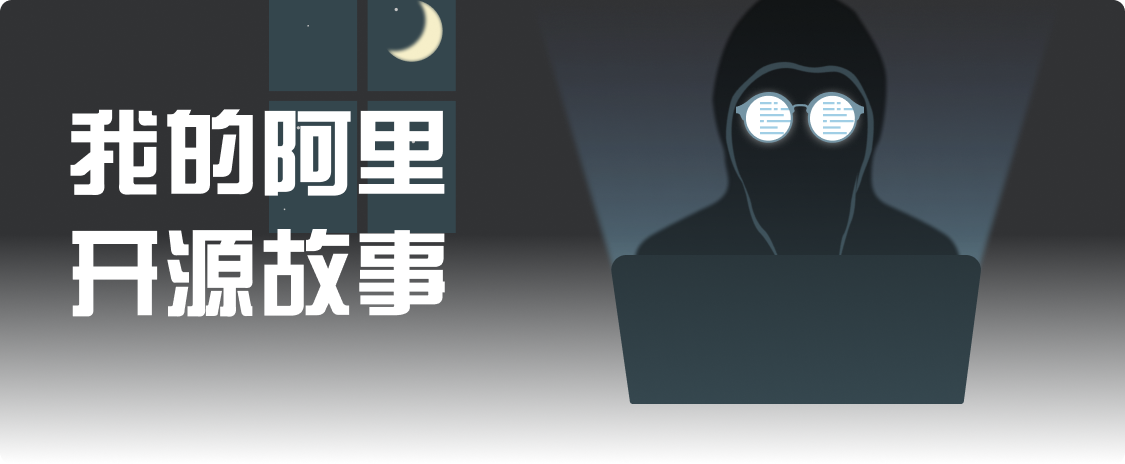
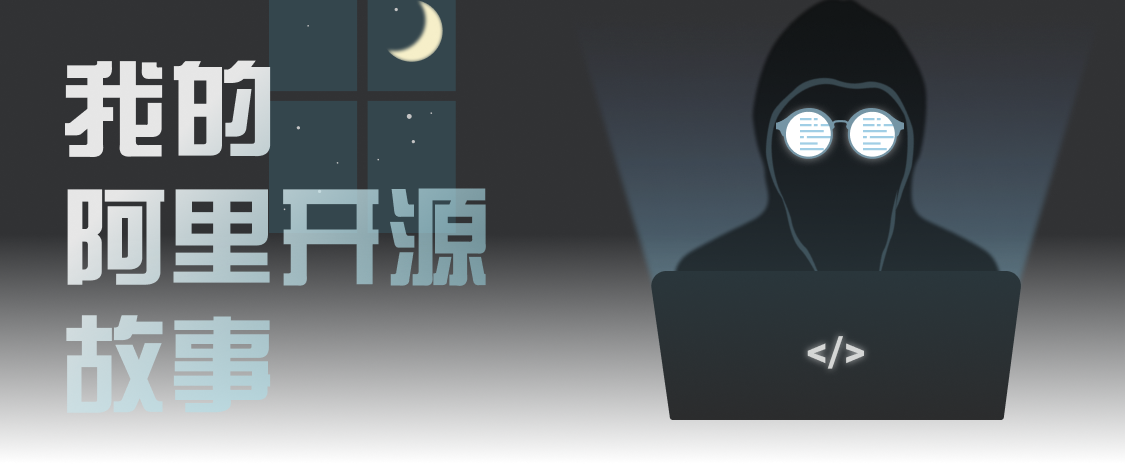
new assets

diff --git a/src/pages/Page4.js b/src/pages/Page4.js
@@ -136,17 +136,17 @@ const Page4 = () => {
         return (
             <div className="section">
                 <Row style={{ 'position': 'absolute', 'top': '0px' }}>
-                    <Col span={24} style={{'margin-bottom':'-30px'}}>
+                    <Col span={24} style={{'margin-bottom':'-50px'}}>
                         <Image src={pic} preview={false} />
                     </Col>
                     <Col span={24} style={{'margin':'auto'}}>
-                    <   Avatar size={"large"}icon={<QuestionOutlined/>}src={'https://avatars.githubusercontent.com/u/'+ userState.actor_id}/>
+                    <   Avatar size={60}icon={<QuestionOutlined/>}src={'https://avatars.githubusercontent.com/u/'+ userState.actor_id}/>
                     </Col>
                     <Col span={24}>
-                        <span style={{'color':'white'}}>{userState.actor_login}</span>
+                        <span style={{'color':'white','font-size':'18px'}}>{userState.actor_login}</span>
                     </Col>
               
-                    <Col span={20} offset={2}>
+                    <Col span={20} offset={2} style={{'margin-top':'10px'}}>
                         <Card
                             bodyStyle={{ 'padding': '12px' }}
                             style={{ 'background': 'rgba(255,255,255,0.1)', 'border-radius': '12px' }}>

diff --git a/src/pages/Page1.js b/src/pages/Page1.js
@@ -5,7 +5,7 @@ import fetch from 'cross-fetch';
 import { update } from '../features/user/userSlice';
 import { useDispatch } from "react-redux";
 
-import tv from '../assets/page1/tv.png'
+import tv from '../assets/page1/computer.gif'
 import text1 from '../assets/page1/text1.png'
 import rect1 from '../assets/page1/Rectangle128.png'
 import story from '../assets/page1/story.png'

diff --git a/src/index.js b/src/index.js
@@ -22,7 +22,8 @@ import DetailPage from './pages/DetailPage';
 var sectionStyle = {
   'backgroundImage':`url(${BG})`,
   'background-size':'100%',
-  'background-repeat':'repeat-x'
+  'background-repeat':'repeat-x',
+  'background-color':'#3b3b3b'
 }
 
 var sectionStyle2 = {
